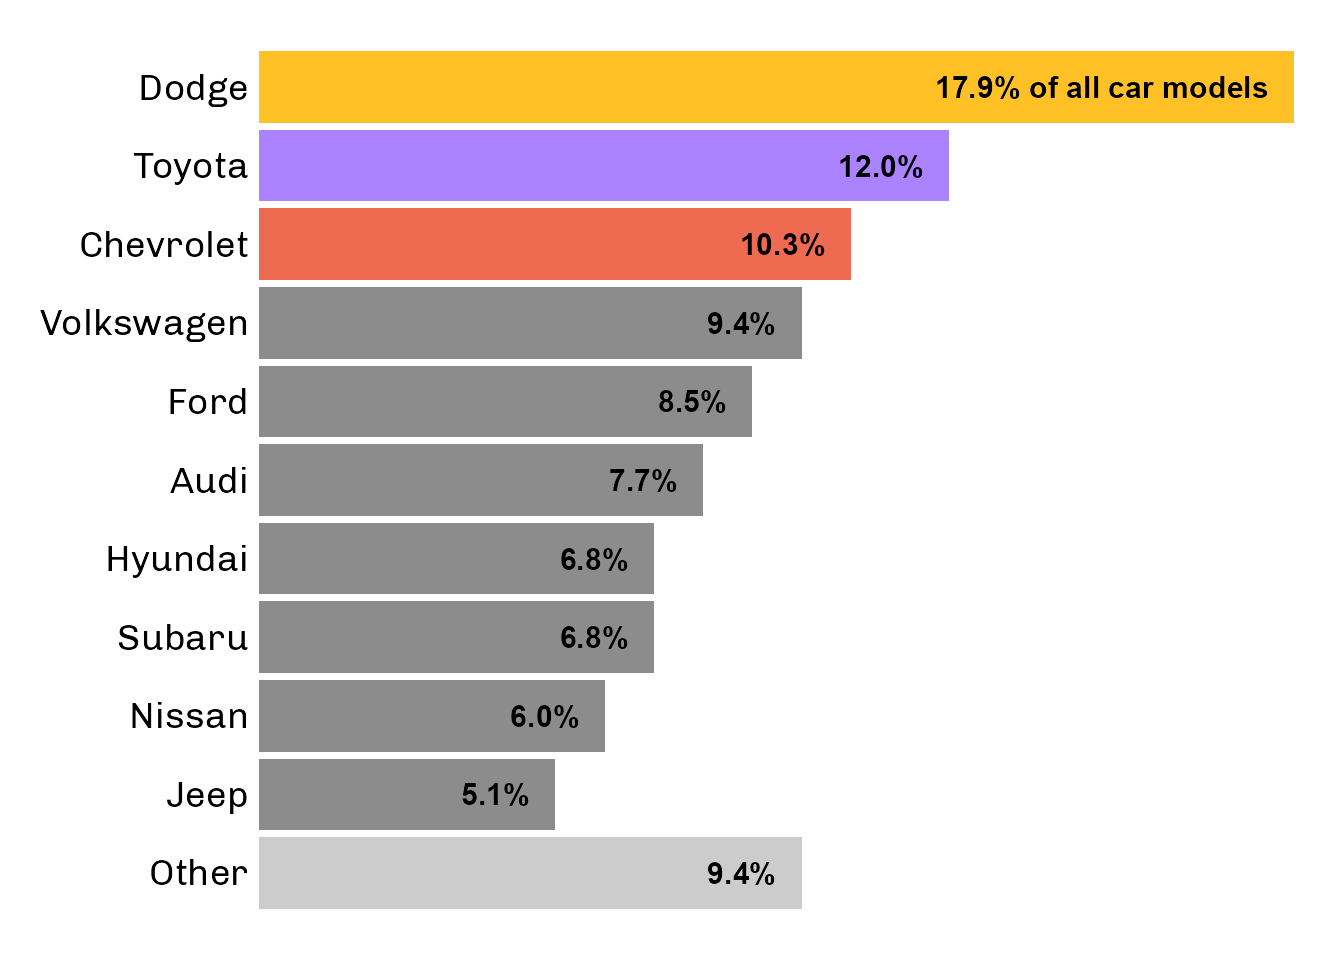
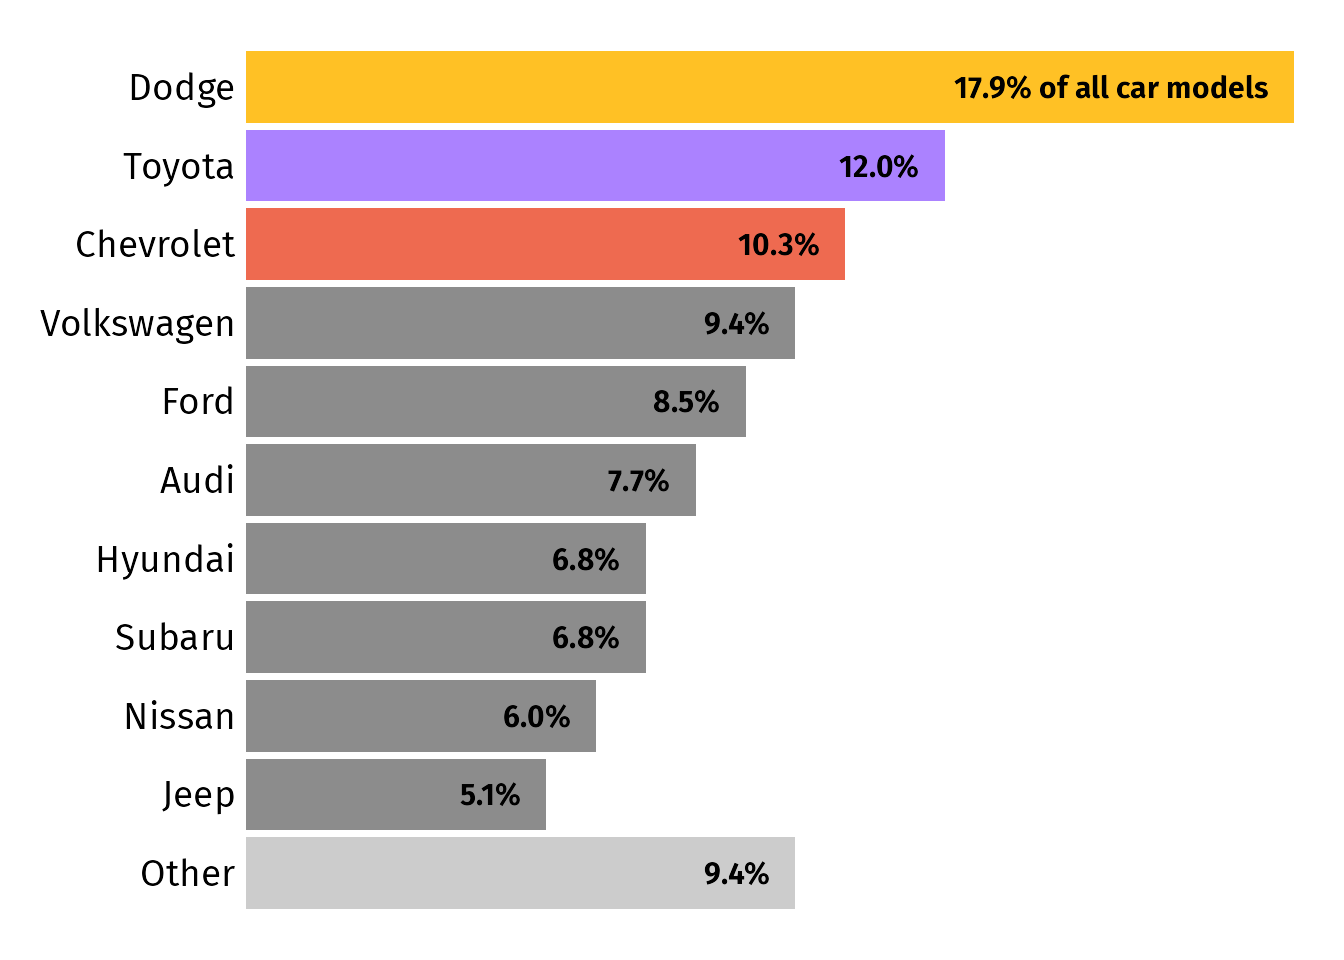
:bug: fix font issue

diff --git a/content/post/2021-07-05_how-to-label-bar-graphs-in-ggplot2.html b/content/post/2021-07-05_how-to-label-bar-graphs-in-ggplot2.html
@@ -328,17 +328,17 @@ ggplot(mpg_sum, aes(n, manufacturer, fill = color)) +
   geom_text(
     aes(label = perc), 
     hjust = 1, nudge_x = -.5,
-    size = 4, fontface = &quot;bold&quot;, family = &quot;Chivo&quot;
+    size = 4, fontface = &quot;bold&quot;, family = &quot;Fira Sans&quot;
   ) +
   ## reduce spacing between labels and bars
   scale_x_continuous(expand = c(.01, .01)) +
   scale_fill_identity(guide = &quot;none&quot;) +
   ## get rid of all elements except y axis labels + adjust plot margin
   theme_void() +
-  theme(axis.text.y = element_text(size = 14, hjust = 1, family = &quot;Chivo&quot;),
+  theme(axis.text.y = element_text(size = 14, hjust = 1, family = &quot;Fira Sans&quot;),
         plot.margin = margin(rep(15, 4)))</code></pre>
 <p><img src="/post/2021-07-05_how-to-label-bar-graphs-in-ggplot2_files/figure-html/full-plot-1.png" width="672" /></p>
-<p>The full code is uploaded in this <a href="https://gist.github.com/z3tt/7bc5d9822a7fff409085073c601f29d5">gist</a> as well.</p>
+<p>You can find the full code to create the final plot in this <a href="https://gist.github.com/z3tt/7bc5d9822a7fff409085073c601f29d5">gist</a>.</p>
 <details>
 <summary style="font-size:10pt;">
 R Session Info
@@ -359,9 +359,9 @@ R Session Info
 ## [1] stats     graphics  grDevices utils     datasets  methods   base     
 ## 
 ## other attached packages:
-## [1] forcats_0.5.1   stringr_1.4.0   dplyr_1.0.5     purrr_0.3.4    
-## [5] readr_1.4.0     tidyr_1.1.3     tibble_3.1.0    ggplot2_3.3.3  
-## [9] tidyverse_1.3.0
+##  [1] forcats_0.5.1     stringr_1.4.0     dplyr_1.0.5       purrr_0.3.4      
+##  [5] readr_1.4.0       tidyr_1.1.3       tibble_3.1.0      ggplot2_3.3.3    
+##  [9] tidyverse_1.3.0   systemfonts_1.0.1
 ## 
 ## loaded via a namespace (and not attached):
 ##  [1] Rcpp_1.0.6        lubridate_1.7.10  ps_1.5.0          assertthat_0.2.1 
@@ -371,15 +371,15 @@ R Session Info
 ## [17] readxl_1.3.1      rstudioapi_0.13   jquerylib_0.1.3   rmarkdown_2.9    
 ## [21] labeling_0.4.2    textshaping_0.3.3 munsell_0.5.0     broom_0.7.4      
 ## [25] compiler_4.0.2    modelr_0.1.8      xfun_0.22         pkgconfig_2.0.3  
-## [29] systemfonts_1.0.1 htmltools_0.5.1.1 tidyselect_1.1.0  bookdown_0.21    
-## [33] fansi_0.4.2       crayon_1.4.1      dbplyr_2.0.0      withr_2.4.1      
-## [37] grid_4.0.2        jsonlite_1.7.2    gtable_0.3.0      lifecycle_1.0.0  
-## [41] DBI_1.1.1         magrittr_2.0.1    scales_1.1.1      cli_2.3.1        
-## [45] stringi_1.5.3     farver_2.1.0      fs_1.5.0          xml2_1.3.2       
-## [49] bslib_0.2.4       ellipsis_0.3.1    ragg_1.1.2        generics_0.1.0   
-## [53] vctrs_0.3.6       tools_4.0.2       glue_1.4.2        hms_1.0.0        
-## [57] yaml_2.2.1        colorspace_2.0-0  rvest_0.3.6       knitr_1.31       
-## [61] haven_2.3.1       sass_0.3.1</code></pre>
+## [29] htmltools_0.5.1.1 tidyselect_1.1.0  bookdown_0.21     fansi_0.4.2      
+## [33] crayon_1.4.1      dbplyr_2.0.0      withr_2.4.1       grid_4.0.2       
+## [37] jsonlite_1.7.2    gtable_0.3.0      lifecycle_1.0.0   DBI_1.1.1        
+## [41] magrittr_2.0.1    scales_1.1.1      cli_2.3.1         stringi_1.5.3    
+## [45] farver_2.1.0      fs_1.5.0          xml2_1.3.2        bslib_0.2.4      
+## [49] ellipsis_0.3.1    ragg_1.1.2        generics_0.1.0    vctrs_0.3.6      
+## [53] tools_4.0.2       glue_1.4.2        hms_1.0.0         yaml_2.2.1       
+## [57] colorspace_2.0-0  rvest_0.3.6       knitr_1.31        haven_2.3.1      
+## [61] sass_0.3.1</code></pre>
 </details>
 </div>
 </div>

diff --git a/public/2021/07/05/a-quick-how-to-on-labelling-bar-graphs-in-ggplot2/index.html b/public/2021/07/05/a-quick-how-to-on-labelling-bar-graphs-in-ggplot2/index.html
@@ -664,17 +664,17 @@ ggplot(mpg_sum, aes(n, manufacturer, fill = color)) +
   geom_text(
     aes(label = perc), 
     hjust = 1, nudge_x = -.5,
-    size = 4, fontface = &quot;bold&quot;, family = &quot;Chivo&quot;
+    size = 4, fontface = &quot;bold&quot;, family = &quot;Fira Sans&quot;
   ) +
   ## reduce spacing between labels and bars
   scale_x_continuous(expand = c(.01, .01)) +
   scale_fill_identity(guide = &quot;none&quot;) +
   ## get rid of all elements except y axis labels + adjust plot margin
   theme_void() +
-  theme(axis.text.y = element_text(size = 14, hjust = 1, family = &quot;Chivo&quot;),
+  theme(axis.text.y = element_text(size = 14, hjust = 1, family = &quot;Fira Sans&quot;),
         plot.margin = margin(rep(15, 4)))</code></pre>
 <p><img src="/post/2021-07-05_how-to-label-bar-graphs-in-ggplot2_files/figure-html/full-plot-1.png" width="672" /></p>
-<p>The full code is uploaded in this <a href="https://gist.github.com/z3tt/7bc5d9822a7fff409085073c601f29d5">gist</a> as well.</p>
+<p>You can find the full code to create the final plot in this <a href="https://gist.github.com/z3tt/7bc5d9822a7fff409085073c601f29d5">gist</a>.</p>
 <details>
 <summary style="font-size:10pt;">
 R Session Info
@@ -695,9 +695,9 @@ R Session Info
 ## [1] stats     graphics  grDevices utils     datasets  methods   base     
 ## 
 ## other attached packages:
-## [1] forcats_0.5.1   stringr_1.4.0   dplyr_1.0.5     purrr_0.3.4    
-## [5] readr_1.4.0     tidyr_1.1.3     tibble_3.1.0    ggplot2_3.3.3  
-## [9] tidyverse_1.3.0
+##  [1] forcats_0.5.1     stringr_1.4.0     dplyr_1.0.5       purrr_0.3.4      
+##  [5] readr_1.4.0       tidyr_1.1.3       tibble_3.1.0      ggplot2_3.3.3    
+##  [9] tidyverse_1.3.0   systemfonts_1.0.1
 ## 
 ## loaded via a namespace (and not attached):
 ##  [1] Rcpp_1.0.6        lubridate_1.7.10  ps_1.5.0          assertthat_0.2.1 
@@ -707,15 +707,15 @@ R Session Info
 ## [17] readxl_1.3.1      rstudioapi_0.13   jquerylib_0.1.3   rmarkdown_2.9    
 ## [21] labeling_0.4.2    textshaping_0.3.3 munsell_0.5.0     broom_0.7.4      
 ## [25] compiler_4.0.2    modelr_0.1.8      xfun_0.22         pkgconfig_2.0.3  
-## [29] systemfonts_1.0.1 htmltools_0.5.1.1 tidyselect_1.1.0  bookdown_0.21    
-## [33] fansi_0.4.2       crayon_1.4.1      dbplyr_2.0.0      withr_2.4.1      
-## [37] grid_4.0.2        jsonlite_1.7.2    gtable_0.3.0      lifecycle_1.0.0  
-## [41] DBI_1.1.1         magrittr_2.0.1    scales_1.1.1      cli_2.3.1        
-## [45] stringi_1.5.3     farver_2.1.0      fs_1.5.0          xml2_1.3.2       
-## [49] bslib_0.2.4       ellipsis_0.3.1    ragg_1.1.2        generics_0.1.0   
-## [53] vctrs_0.3.6       tools_4.0.2       glue_1.4.2        hms_1.0.0        
-## [57] yaml_2.2.1        colorspace_2.0-0  rvest_0.3.6       knitr_1.31       
-## [61] haven_2.3.1       sass_0.3.1</code></pre>
+## [29] htmltools_0.5.1.1 tidyselect_1.1.0  bookdown_0.21     fansi_0.4.2      
+## [33] crayon_1.4.1      dbplyr_2.0.0      withr_2.4.1       grid_4.0.2       
+## [37] jsonlite_1.7.2    gtable_0.3.0      lifecycle_1.0.0   DBI_1.1.1        
+## [41] magrittr_2.0.1    scales_1.1.1      cli_2.3.1         stringi_1.5.3    
+## [45] farver_2.1.0      fs_1.5.0          xml2_1.3.2        bslib_0.2.4      
+## [49] ellipsis_0.3.1    ragg_1.1.2        generics_0.1.0    vctrs_0.3.6      
+## [53] tools_4.0.2       glue_1.4.2        hms_1.0.0         yaml_2.2.1       
+## [57] colorspace_2.0-0  rvest_0.3.6       knitr_1.31        haven_2.3.1      
+## [61] sass_0.3.1</code></pre>
 </details>
 </div>
 </div>
